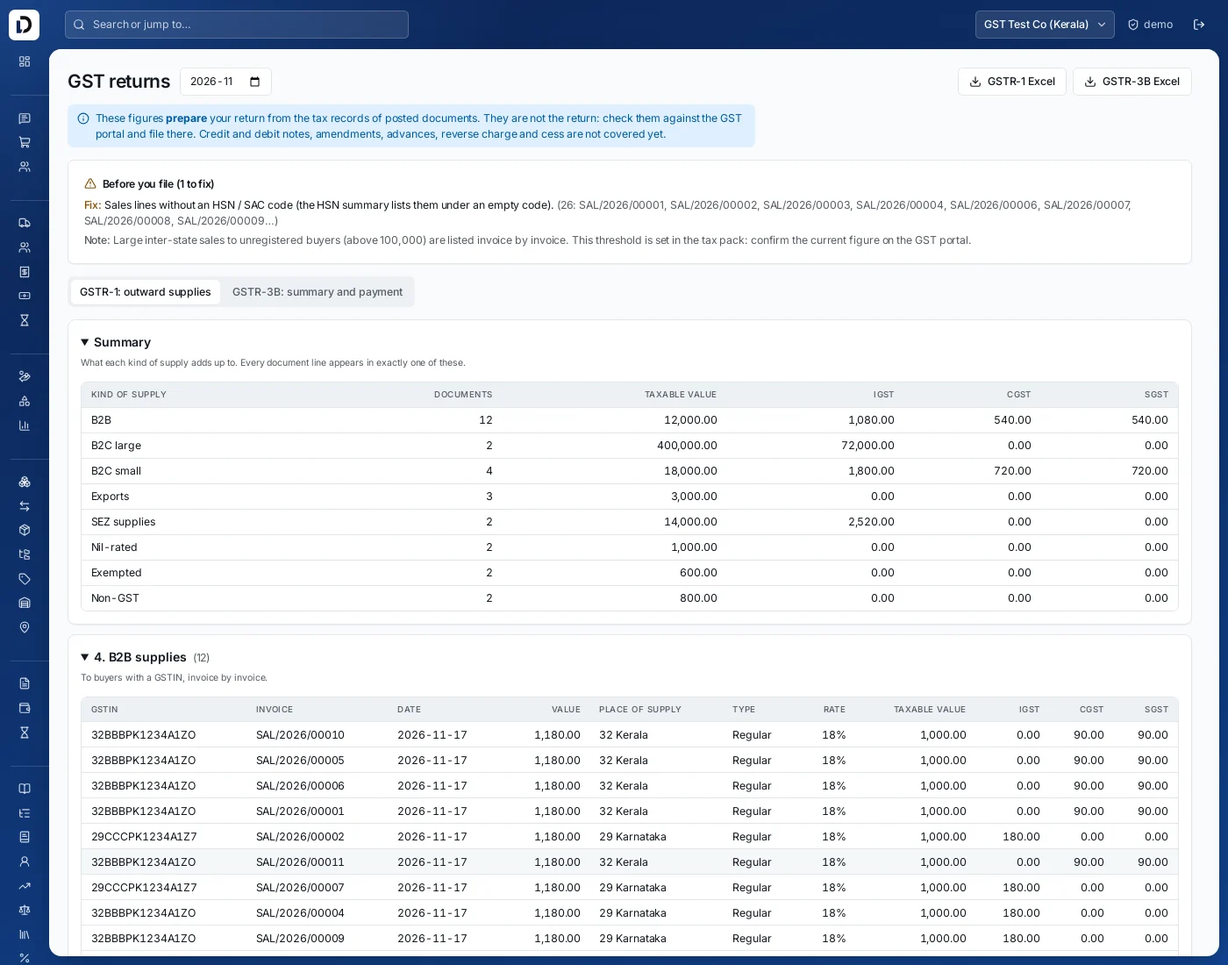
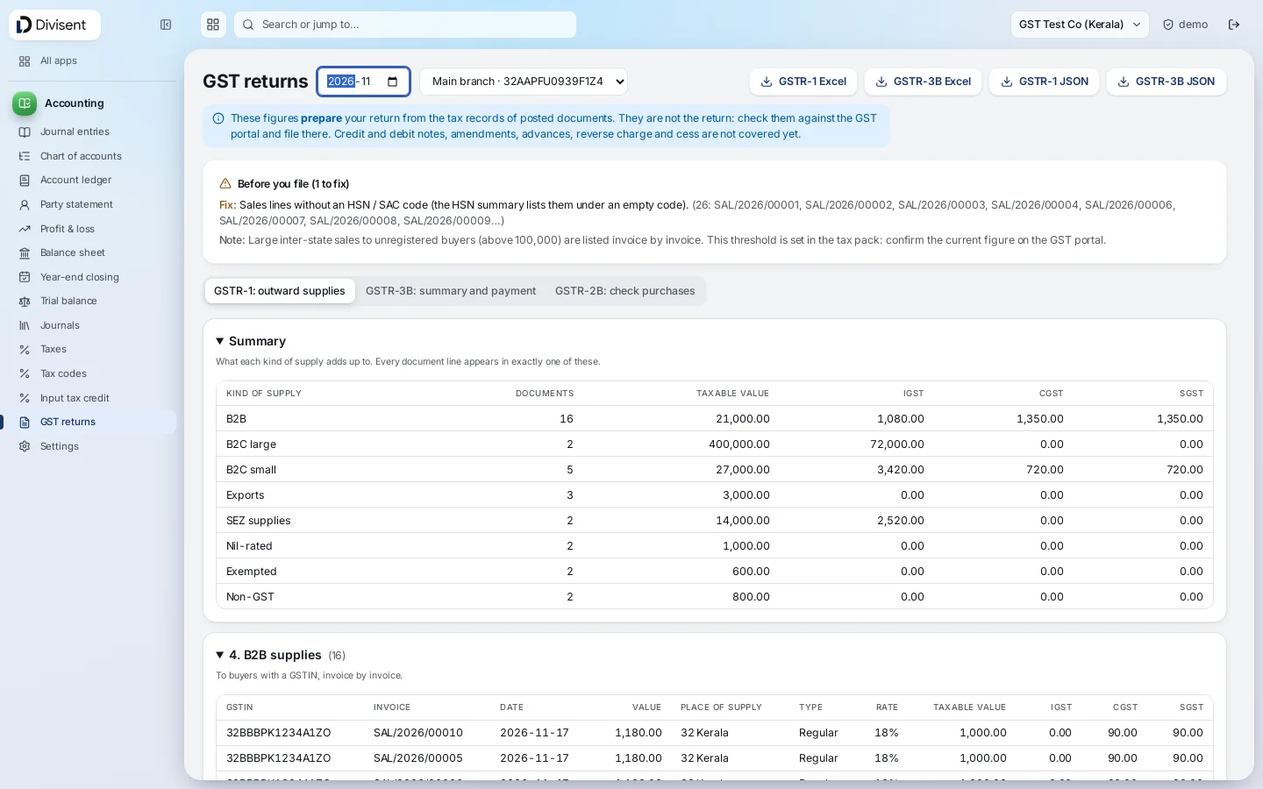
Redesign around the new app-grid product: interactive launcher hero, new screenshots, branches

diff --git a/index.html b/index.html
@@ -5,7 +5,7 @@
 <meta name="viewport" content="width=device-width, initial-scale=1">
 <title>Divisent ERP — Sales, stock, accounts and GST in one system</title>
 <meta name="description" content="Divisent ERP connects sales, purchase, inventory, invoicing, accounting and India GST on one ledger, with approvals, audit log and automated e-mail.">
-<meta name="theme-color" content="#0F2557">
+<meta name="theme-color" content="#dcecff">
 <link rel="icon" type="image/svg+xml" href="assets/favicon.svg">
 <link rel="preconnect" href="https://fonts.googleapis.com"><link rel="preconnect" href="https://fonts.gstatic.com" crossorigin>
 <link href="https://fonts.googleapis.com/css2?family=Inter:wght@400;500;600;700;800&display=swap" rel="stylesheet">
@@ -24,24 +24,19 @@
 </div></header>
 <main>
 
-<section class="hero">
-<div class="wrap hero-grid">
-<div class="hero-copy">
-<p class="pill"><b>New</b> GST returns &amp; approvals</p>
-<h1>Run your business <em>in one place.</em></h1>
-<p class="lead">Sales, stock, invoices, accounts and GST, connected. No more matching spreadsheets.</p>
+<section class="hero"><div class="wrap">
+<p class="pill"><b>New</b> App-style home screen &amp; multiple branches</p>
+<h1>Your whole business, <em>one tap away.</em></h1>
+<p class="lead">Sales, stock, invoices, accounts and GST as simple apps that share one set of books.</p>
 <div class="cta"><a class="btn" href="#contact">Request a demo</a><a class="btn btn-line" href="#story">See how it works</a></div>
-<ul class="proof"><li>No negative stock</li><li>Gap-free numbers</li><li>Full audit trail</li></ul>
-</div>
-<div class="visual">
-<div class="frame"><div class="bar"><i></i><i></i><i></i><span>erp.divisent.com</span></div><img src="assets/img/home.webp" alt="Divisent ERP overview with receivables, payables and pending orders"></div>
-<div class="chip c1" aria-hidden="true"><i>✓</i><div><b>Invoice posted</b><span>Books updated with it</span></div></div>
-<div class="chip c2" aria-hidden="true"><i>▤</i><div><b>Stock reserved</b><span>When the order is confirmed</span></div></div>
-<div class="chip c3" aria-hidden="true"><i>%</i><div><b>GST 18% applied</b><span>CGST 9% + SGST 9%</span></div></div>
-</div>
-</div>
-<nav class="modbar" aria-label="Modules"><div class="wrap"><a href="#tour" data-tab="sales">Sales</a><a href="#tour" data-tab="purchase">Purchase</a><a href="#tour" data-tab="inventory">Inventory</a><a href="#tour" data-tab="invoicing">Invoicing</a><a href="#tour" data-tab="accounting">Accounting</a><a href="#tour" data-tab="control">Approvals &amp; control</a><a href="#gst">GST</a></div></nav>
-</section>
+<p class="hint">Try it: tap any app below ↓</p>
+<div class="device">
+<div class="d-top"><img src="assets/logo.svg" alt="" width="93" height="24"><button class="back" hidden>← All apps</button><span class="co">Demo company</span></div>
+<div class="d-body">
+<div class="launch"><p class="greet">Good morning 👋</p><div class="grid"><button class="app" data-shot="home" data-name="Dashboard" data-cap="Today at a glance: who owes you, what is overdue and what is waiting." style="--a:#4c6ef5;--b:#364fc7"><span class="ico"><svg viewBox="0 0 24 24" aria-hidden="true"><rect width="7" height="9" x="3" y="3" rx="1"/><rect width="7" height="5" x="14" y="3" rx="1"/><rect width="7" height="9" x="14" y="12" rx="1"/><rect width="7" height="5" x="3" y="16" rx="1"/></svg></span>Dashboard</button><button class="app" data-shot="approvals" data-name="Approvals" data-cap="Junior staff draft, an accountant approves or rejects." style="--a:#20c997;--b:#087f5b"><span class="ico"><svg viewBox="0 0 24 24" aria-hidden="true"><rect width="8" height="4" x="8" y="2" rx="1" ry="1"/><path d="M16 4h2a2 2 0 0 1 2 2v14a2 2 0 0 1-2 2H6a2 2 0 0 1-2-2V6a2 2 0 0 1 2-2h2"/><path d="m9 14 2 2 4-4"/></svg></span>Approvals</button><button class="app" data-shot="sales" data-name="Sales" data-cap="Enquiries, orders and customers." style="--a:#ff922b;--b:#e8590c"><span class="ico"><svg viewBox="0 0 24 24" aria-hidden="true"><path d="m2.05 2.05 1.099-.028a1 1 0 0 1 1.008.815l2.69 14.347A1 1 0 0 0 7.83 18H18"/><path d="M4.563 5h16.435a1 1 0 0 1 .981 1.204l-1.026 6.226A2 2 0 0 1 18.962 14H6.25"/><circle cx="18" cy="20" r="2"/><circle cx="8" cy="20" r="2"/></svg></span>Sales</button><button class="app" data-shot="purchase" data-name="Purchase" data-cap="Purchase orders, vendor bills and suppliers." style="--a:#9775fa;--b:#6741d9"><span class="ico"><svg viewBox="0 0 24 24" aria-hidden="true"><path d="M14 18V6a2 2 0 0 0-2-2H4a2 2 0 0 0-2 2v11a1 1 0 0 0 1 1h2"/><path d="M15 18H9"/><path d="M19 18h2a1 1 0 0 0 1-1v-3.65a1 1 0 0 0-.22-.624l-3.48-4.35A1 1 0 0 0 17.52 8H14"/><circle cx="17" cy="18" r="2"/><circle cx="7" cy="18" r="2"/></svg></span>Purchase</button><button class="app" data-shot="pl" data-name="Expenses" data-cap="Record spending with receipts; it flows into Profit &amp; loss." style="--a:#f06595;--b:#c2255c"><span class="ico"><svg viewBox="0 0 24 24" aria-hidden="true"><path d="M11 15h2a2 2 0 1 0 0-4h-3c-.6 0-1.1.2-1.4.6L3 17"/><path d="m7 21 1.6-1.4c.3-.4.8-.6 1.4-.6h4c1.1 0 2.1-.4 2.8-1.2l4.6-4.4a2 2 0 0 0-2.75-2.91l-4.2 3.9"/><path d="m2 16 6 6"/><circle cx="16" cy="9" r="2.9"/><circle cx="6" cy="5" r="3"/></svg></span>Expenses</button><button class="app" data-shot="stock" data-name="Inventory" data-cap="Stock on hand, reserved and available." style="--a:#22b8cf;--b:#0b7285"><span class="ico"><svg viewBox="0 0 24 24" aria-hidden="true"><path d="M11 21.73a2 2 0 0 0 2 0l7-4A2 2 0 0 0 21 16V8a2 2 0 0 0-1-1.73l-7-4a2 2 0 0 0-2 0l-7 4A2 2 0 0 0 3 8v8a2 2 0 0 0 1 1.73z"/><path d="M12 22V12"/><polyline points="3.29 7 12 12 20.71 7"/><path d="m7.5 4.27 9 5.15"/></svg></span>Inventory</button><button class="app" data-shot="invoices" data-name="Invoicing" data-cap="Invoices, payments received and ageing." style="--a:#4dabf7;--b:#1864ab"><span class="ico"><svg viewBox="0 0 24 24" aria-hidden="true"><path d="M6 22a2 2 0 0 1-2-2V4a2 2 0 0 1 2-2h8a2.4 2.4 0 0 1 1.704.706l3.588 3.588A2.4 2.4 0 0 1 20 8v12a2 2 0 0 1-2 2z"/><path d="M14 2v5a1 1 0 0 0 1 1h5"/><path d="M10 9H8"/><path d="M16 13H8"/><path d="M16 17H8"/></svg></span>Invoicing</button><button class="app" data-shot="balance" data-name="Accounting" data-cap="Ledgers, balance sheet, year-end and GST." style="--a:#51cf66;--b:#2b8a3e"><span class="ico"><svg viewBox="0 0 24 24" aria-hidden="true"><path d="M12 5v16"/><path d="m16 12 2 2 4-4"/><path d="M22 6V5a2 2 0 00-1.999-2L16 3.002A5 5 0 0012 5a5 5 0 00-4-2H4a2 2 0 00-2 2v12a2 2 0 001.999 2H8a5 5 0 014 2 5 5 0 014-2h4.001A2 2 0 0022 17v-1.344"/></svg></span>Accounting</button><button class="app" data-shot="invoicemail" data-name="Email" data-cap="Invoices and overdue reminders sent for you." style="--a:#fcc419;--b:#e67700"><span class="ico"><svg viewBox="0 0 24 24" aria-hidden="true"><path d="m22 7-8.991 5.727a2 2 0 0 1-2.009 0L2 7"/><rect x="2" y="4" width="20" height="16" rx="2"/></svg></span>Email</button><button class="app" data-shot="audit" data-name="Company" data-cap="Settings, branches and the audit log." style="--a:#868e96;--b:#343a40"><span class="ico"><svg viewBox="0 0 24 24" aria-hidden="true"><path d="M10 12h4"/><path d="M10 8h4"/><path d="M14 21v-3a2 2 0 0 0-4 0v3"/><path d="M6 10H4a2 2 0 0 0-2 2v7a2 2 0 0 0 2 2h16a2 2 0 0 0 2-2V9a2 2 0 0 0-2-2h-2"/><path d="M6 21V5a2 2 0 0 1 2-2h8a2 2 0 0 1 2 2v16"/></svg></span>Company</button><button class="app" data-shot="roles" data-name="Team" data-cap="Users and roles with four access levels." style="--a:#da77f2;--b:#862e9c"><span class="ico"><svg viewBox="0 0 24 24" aria-hidden="true"><path d="M18 21a8 8 0 0 0-16 0"/><circle cx="10" cy="8" r="5"/><path d="M22 20c0-3.37-2-6.5-4-8a5 5 0 0 0-.45-8.3"/></svg></span>Team</button></div><div class="dock"><a href="#story" style="--a:#4dabf7;--b:#1864ab"><span class="ico"><svg viewBox="0 0 24 24" aria-hidden="true"><path d="M6 22a2 2 0 0 1-2-2V4a2 2 0 0 1 2-2h8a2.4 2.4 0 0 1 1.704.706l3.588 3.588A2.4 2.4 0 0 1 20 8v12a2 2 0 0 1-2 2z"/><path d="M14 2v5a1 1 0 0 0 1 1h5"/><path d="M10 9H8"/><path d="M16 13H8"/><path d="M16 17H8"/></svg><i>+</i></span>Invoice</a><a href="#story" style="--a:#9775fa;--b:#6741d9"><span class="ico"><svg viewBox="0 0 24 24" aria-hidden="true"><path d="M14 18V6a2 2 0 0 0-2-2H4a2 2 0 0 0-2 2v11a1 1 0 0 0 1 1h2"/><path d="M15 18H9"/><path d="M19 18h2a1 1 0 0 0 1-1v-3.65a1 1 0 0 0-.22-.624l-3.48-4.35A1 1 0 0 0 17.52 8H14"/><circle cx="17" cy="18" r="2"/><circle cx="7" cy="18" r="2"/></svg><i>+</i></span>Bill</a><a href="#story" style="--a:#f06595;--b:#c2255c"><span class="ico"><svg viewBox="0 0 24 24" aria-hidden="true"><path d="M11 15h2a2 2 0 1 0 0-4h-3c-.6 0-1.1.2-1.4.6L3 17"/><path d="m7 21 1.6-1.4c.3-.4.8-.6 1.4-.6h4c1.1 0 2.1-.4 2.8-1.2l4.6-4.4a2 2 0 0 0-2.75-2.91l-4.2 3.9"/><path d="m2 16 6 6"/><circle cx="16" cy="9" r="2.9"/><circle cx="6" cy="5" r="3"/></svg><i>+</i></span>Expense</a><a href="#story" style="--a:#ff922b;--b:#e8590c"><span class="ico"><svg viewBox="0 0 24 24" aria-hidden="true"><path d="m2.05 2.05 1.099-.028a1 1 0 0 1 1.008.815l2.69 14.347A1 1 0 0 0 7.83 18H18"/><path d="M4.563 5h16.435a1 1 0 0 1 .981 1.204l-1.026 6.226A2 2 0 0 1 18.962 14H6.25"/><circle cx="18" cy="20" r="2"/><circle cx="8" cy="20" r="2"/></svg><i>+</i></span>Sale</a></div></div>
+<div class="open" hidden><p aria-live="polite"><b></b> <span></span></p><img alt=""></div>
+</div></div>
+</div></section>
 
 <section class="intent"><div class="wrap">
 <h2 class="center">What do you want to fix first?</h2>
@@ -78,14 +73,14 @@
 <div class="stage" aria-hidden="true"><div class="frame"><div class="bar"><i></i><i></i><i></i><span>erp.divisent.com</span></div><div class="screens"><img src="assets/img/enquiries.webp" alt="" class=on><img src="assets/img/sales.webp" alt="" ><img src="assets/img/stock.webp" alt="" ><img src="assets/img/invoices.webp" alt="" ><img src="assets/img/receivables.webp" alt="" ></div></div><div class="meter"><b></b></div></div>
 </div></div></section>
 
-<section class="sec navy" id="gst"><div class="wrap">
+<section class="sec tint" id="gst"><div class="wrap">
 <div class="show"><div><p class="eyebrow">Built for India GST</p><h2>GST worked out as you bill.</h2>
 <p>Choose a tax code; Divisent applies CGST + SGST or IGST from the place of supply, checks GSTINs and carries HSN/SAC codes to the PDF.</p>
 <ul class="tick"><li>GSTR-1 and GSTR-3B figures with checks, Excel and JSON</li><li>Input tax credit and reverse charge</li><li>GSTR-2B upload and matching</li><li>E-invoice and e-way bill files; IRN and QR on the PDF</li></ul>
 <p class="note">File-based: you review and upload to the government portals yourself. There is no live portal connection, and generated JSON layouts should be verified before filing. VAT setups are supported too.</p></div>
 <div class="stack-shots"><div class="frame"><div class="bar"><i></i><i></i><i></i><span>erp.divisent.com</span></div><img src="assets/img/gstr.webp" alt="GSTR-1 summary by kind of supply" loading=lazy></div><div class="frame"><div class="bar"><i></i><i></i><i></i><span>erp.divisent.com</span></div><img src="assets/img/gst-invoice.webp" alt="Invoice with CGST and SGST calculated" loading=lazy></div></div></div>
-<div class="show rev"><div><h2>Match purchases against GSTR-2B.</h2><p>Upload the month's statement and see what matched, what differs and what your supplier hasn't reported, before you claim the credit.</p></div>
-<div><div class="frame"><div class="bar"><i></i><i></i><i></i><span>erp.divisent.com</span></div><img src="assets/img/gstr2b.webp" alt="GSTR-2B matching results" loading=lazy></div></div></div>
+<div class="show rev"><div><h2>Input tax credit, worked out.</h2><p>See tax collected, credit you can claim and what is left to pay. Upload GSTR-2B to find what your supplier hasn't reported.</p></div>
+<div><div class="frame"><div class="bar"><i></i><i></i><i></i><span>erp.divisent.com</span></div><img src="assets/img/itc.webp" alt="Input tax credit summary" loading="lazy"></div></div></div>
 </div></section>
 
 <section class="sec"><div class="wrap show">
@@ -95,7 +90,7 @@
 
 <section class="sec alt" id="features"><div class="wrap">
 <p class="eyebrow">All features</p><h2>Everything inside Divisent ERP.</h2>
-<div class="dir"><article><h3>Home &amp; work</h3><ul><li>Overview dashboard</li><li>Approvals</li><li>Ctrl+K command search</li><li>Multiple companies</li></ul></article><article><h3>Sales</h3><ul><li>Enquiries</li><li>Sales orders</li><li>Customers</li></ul></article><article><h3>Purchase</h3><ul><li>Purchase orders</li><li>Suppliers</li><li>Vendor bills</li><li>Payments to suppliers</li><li>Payables ageing</li></ul></article><article><h3>Expenses</h3><ul><li>Expenses with receipts</li><li>Expense categories</li><li>Expense report</li></ul></article><article><h3>Inventory</h3><ul><li>Stock on hand</li><li>Stock moves</li><li>Products</li><li>Product categories</li><li>Brands</li><li>Warehouses</li><li>Locations</li></ul></article><article><h3>Invoicing</h3><ul><li>Invoices</li><li>Payments received</li><li>Receivables ageing</li></ul></article><article><h3>Accounting</h3><ul><li>Journal entries</li><li>Chart of accounts</li><li>Journals</li><li>Account ledger</li><li>Party statement</li><li>Profit &amp; loss</li><li>Balance sheet</li><li>Trial balance</li><li>Year-end closing</li><li>Accounting settings</li></ul></article><article><h3>Tax &amp; GST</h3><ul><li>Taxes</li><li>Tax codes</li><li>Input tax credit</li><li>GST returns</li><li>GSTR-2B check</li><li>E-invoice &amp; e-way bill files</li></ul></article><article><h3>E-mail</h3><ul><li>Overdue reminders</li><li>Invoice e-mails</li><li>Reminder rules</li><li>Mail log</li><li>Email settings</li></ul></article><article><h3>Company &amp; team</h3><ul><li>Company settings</li><li>Audit log</li><li>Users</li><li>Roles</li></ul></article></div>
+<div class="dir"><article><h3>Home &amp; work</h3><ul><li>Overview dashboard</li><li>Approvals</li><li>Ctrl+K command search</li><li>Multiple companies</li><li>Multiple branches</li></ul></article><article><h3>Sales</h3><ul><li>Enquiries</li><li>Sales orders</li><li>Customers</li></ul></article><article><h3>Purchase</h3><ul><li>Purchase orders</li><li>Suppliers</li><li>Vendor bills</li><li>Payments to suppliers</li><li>Payables ageing</li></ul></article><article><h3>Expenses</h3><ul><li>Expenses with receipts</li><li>Expense categories</li><li>Expense report</li></ul></article><article><h3>Inventory</h3><ul><li>Stock on hand</li><li>Stock moves</li><li>Products</li><li>Product categories</li><li>Brands</li><li>Warehouses</li><li>Locations</li></ul></article><article><h3>Invoicing</h3><ul><li>Invoices</li><li>Payments received</li><li>Receivables ageing</li></ul></article><article><h3>Accounting</h3><ul><li>Journal entries</li><li>Chart of accounts</li><li>Journals</li><li>Account ledger</li><li>Party statement</li><li>Profit &amp; loss</li><li>Balance sheet</li><li>Trial balance</li><li>Year-end closing</li><li>Accounting settings</li></ul></article><article><h3>Tax &amp; GST</h3><ul><li>Taxes</li><li>Tax codes</li><li>Input tax credit</li><li>GST returns</li><li>GSTR-2B check</li><li>E-invoice &amp; e-way bill files</li></ul></article><article><h3>E-mail</h3><ul><li>Overdue reminders</li><li>Invoice e-mails</li><li>Reminder rules</li><li>Mail log</li><li>Email settings</li></ul></article><article><h3>Company &amp; team</h3><ul><li>Company settings</li><li>Audit log</li><li>Users</li><li>Roles</li></ul></article></div>
 </div></section>
 
 <section class="sec" id="why"><div class="wrap">
@@ -129,6 +124,7 @@
 <details><summary>Does it file GST returns for me?</summary><p>No. It prepares figures and files for you to check and upload. It is not connected live to the GST portal.</p></details>
 <details><summary>What isn't included yet?</summary><p>Multi-currency, credit and debit notes, stock valuation, lot or serial tracking, bank reconciliation and payroll are not available today.</p></details>
 <details><summary>Can I run more than one company?</summary><p>Yes. One login can work in several companies, and each company's data stays separate.</p></details>
+<details><summary>Do you support branches?</summary><p>Yes. One company can have several branches, each with its own GSTIN and invoice numbering, and key reports filter by branch. Stock transfers between branches are not built yet.</p></details>
 <details><summary>Can it be adapted to our process?</summary><p>Yes, through custom fields and rules kept separate from the core, so the product stays upgradeable.</p></details>
 </div></section>
 

diff --git a/assets/style.css b/assets/style.css
@@ -101,31 +101,9 @@ td[data-h]::before{content:attr(data-h);display:block;font-size:11px;font-weight
 @media(max-width:980px){.about{grid-template-columns:1fr;gap:12px}.links{gap:0}}
 @media(min-width:981px) and (max-width:1100px){.links{gap:16px}}
 
-.hero{position:relative;overflow:hidden;background:#f6f8fd}
-.hero-grid{position:relative;display:grid;grid-template-columns:minmax(0,.9fr) minmax(0,1.1fr);gap:48px;align-items:center;padding:80px 0 88px}
-.pill{display:inline-flex;align-items:center;gap:10px;margin:0 0 24px;padding:5px 16px 5px 5px;background:#fff;border:1px solid var(--line);border-radius:99px;font-size:13.5px;color:#37415c}
-.pill b{background:var(--accent);color:#fff;border-radius:99px;padding:1px 10px;font-size:12px}
-.hero h1{font-size:clamp(38px,4.6vw,62px);color:var(--navy);margin-bottom:22px}
-.hero h1 em{font-style:normal;color:var(--accent)}
-.hero .lead{margin:0}.hero .cta{justify-content:flex-start;margin-top:30px}
 .btn-line{background:#fff;color:var(--navy);border-color:#cfd6e8}.btn-line:hover{border-color:var(--navy)}
-.proof{list-style:none;display:flex;flex-wrap:wrap;gap:8px 20px;margin:30px 0 0;padding:0;font-size:13.5px;font-weight:500;color:var(--muted)}
-.proof li::before{content:"✓ ";color:#12805c;font-weight:800}
-.visual{position:relative;margin-right:calc(min(0px,(1180px - 100vw)/2) + 40px)}
-.visual::before{content:"";position:absolute;inset:-32px -40px;background:linear-gradient(135deg,#2f6bff,#0F2557);border-radius:32px;transform:rotate(-3deg);opacity:.12}
-.visual .frame{position:relative}
-.chip{position:absolute;display:flex;gap:12px;align-items:center;background:#fff;border:1px solid var(--line);border-radius:14px;padding:12px 16px;box-shadow:0 18px 40px -18px rgba(9,25,66,.45);animation:bob 6s ease-in-out infinite}
-.chip i{display:grid;place-items:center;width:34px;height:34px;border-radius:10px;background:#e8efff;color:var(--accent);font-style:normal;font-weight:800}
-.chip b{display:block;font-size:14px;color:var(--navy);line-height:1.3}.chip span{display:block;font-size:12.5px;color:var(--muted)}
-.c1{left:-34px;top:20%}.c1 i{background:#e2f5ec;color:#12805c}.c2{right:16px;top:-26px;animation-delay:-2s}.c3{left:14%;bottom:-28px;animation-delay:-4s}
-@keyframes bob{50%{transform:translateY(-9px)}}
-.modbar{position:relative;background:var(--navy)}
-.modbar .wrap{display:flex;justify-content:space-between;gap:4px 24px;overflow-x:auto;padding:6px 0}
-.modbar a{color:#c9d5f5;text-decoration:none;font-weight:600;font-size:14.5px;padding:14px 4px;white-space:nowrap;border-bottom:2px solid transparent}
-.modbar a:hover{color:#fff;border-color:#8fb2ff}
 @media(max-width:980px){.hero-grid{grid-template-columns:minmax(0,1fr);padding:52px 0 64px}.visual{margin:20px 0 0}.visual::before{inset:-18px -10px}.c1{left:-6px;top:auto;bottom:-26px}.c2{right:-4px}.c3{display:none}}
 @media(max-width:600px){.chip{padding:8px 10px;gap:8px}.chip i{width:26px;height:26px}.chip span{display:none}}
-@media(prefers-reduced-motion:reduce){.chip{animation:none}}
 .brand img{height:30px;width:auto}.foot .brand img{height:26px}
 .foot .brand{gap:10px}.foot .brand .tile{height:30px}.foot .brand .word{height:30px}
 .progress{position:fixed;left:0;top:0;height:3px;width:100%;z-index:60;background:linear-gradient(90deg,#2f6bff,#8fb2ff);transform-origin:0 50%;transform:scaleX(0)}
@@ -145,14 +123,11 @@ td[data-h]::before{content:attr(data-h);display:block;font-size:11px;font-weight
 .cards4 a:nth-child(3),.cards4>div:nth-child(3),.dir article:nth-child(5n+3){transition-delay:.16s}
 .cards4 a:nth-child(4),.cards4>div:nth-child(4),.dir article:nth-child(5n+4){transition-delay:.24s}
 .dir article:nth-child(5n){transition-delay:.32s}
-.visual>.frame{transition:transform .25s ease-out}
 @media(max-width:980px){.story-grid{grid-template-columns:minmax(0,1fr)}.stage{display:none}
 .steps li{min-height:0;opacity:1;border-color:var(--accent);padding:0 0 40px 20px}.steps h3{font-size:24px}.steps img{display:block;margin-top:18px;border-radius:12px;border:1px solid var(--line);box-shadow:var(--shadow)}}
 @media(prefers-reduced-motion:reduce){.screens img{transition:none}}
 
 /* compact spacing */
-.hero-grid{padding:44px 0 52px;gap:40px}
-.pill{margin-bottom:18px}.hero h1{margin-bottom:14px;line-height:1.08}.hero .cta{margin-top:22px}.proof{margin-top:20px}
 .sec{padding:64px 0}.intent{padding:52px 0 56px}.cards4{margin-top:24px}
 .tabs{margin:24px 0 26px}.dir{margin-top:26px}.table{margin:24px 0 14px}.show.rev{margin-top:52px}
 .p-copy{padding-top:48px}.flow{margin-top:26px}
@@ -160,11 +135,6 @@ td[data-h]::before{content:attr(data-h);display:block;font-size:11px;font-weight
 @media(max-width:980px){.p-copy{padding-top:0}.steps li{min-height:0;padding-bottom:28px}.sec{padding:48px 0}.hero-grid{padding:28px 0 40px;gap:26px}}
 @media(max-width:600px){
 .wrap{width:calc(100% - 32px)}
-.hero{text-align:center}.hero h1{font-size:36px}.hero .lead{font-size:16.5px;line-height:1.55}
-.pill{font-size:12.5px;margin-bottom:14px}
-.hero .cta{display:grid;grid-template-columns:1fr 1fr;gap:10px;margin-top:18px}.hero .btn{padding:12px 8px;font-size:14.5px}
-.proof{justify-content:center;gap:4px 14px;font-size:12.5px;margin-top:14px}
-.visual{margin:8px 0 6px}
 h2{font-size:26px}.lead{font-size:16.5px}
 .sec{padding:40px 0}.intent{padding:36px 0 40px}
 .cards4{grid-template-columns:1fr 1fr;gap:10px}.cards4 a,.cards4>div{padding:14px;gap:6px}.cards4 b{font-size:15px;line-height:1.3}.cards4 span{font-size:13px;line-height:1.45}
@@ -172,4 +142,51 @@ h2{font-size:26px}.lead{font-size:16.5px}
 .dir{grid-template-columns:1fr 1fr;gap:10px}.dir article{padding:14px}.dir h3{font-size:14px}.dir li{font-size:12.5px;line-height:1.4}
 .about{gap:6px}
 }
-.hero h1 em{display:block}
+
+
+/* ---- product look: frosted blue, app tiles, rounded controls ---- */
+:root{--navy:#14213d;--accent:#2563eb;--alt:#eef3fb;--line:#dfe6f2;--r:22px;--shadow:0 24px 60px -30px rgba(30,64,130,.4)}
+.nav{background:rgba(240,247,255,.82)}
+.btn{border-radius:99px;background:#1b3570;border-color:#1b3570}.btn-line,.btn-light{background:#fff;color:#14213d;border-color:#d5dfef}
+.frame{border-radius:20px}.frame .bar{display:none}
+.hero{text-align:center;padding:40px 0 56px;background:radial-gradient(700px 420px at 22% 8%,#bcdcff,transparent),radial-gradient(700px 420px at 85% 30%,#e4dcff,transparent),linear-gradient(#e6f2ff,#eef3fb)}
+.pill{display:inline-flex;gap:10px;align-items:center;margin:0 0 16px;padding:5px 16px 5px 5px;background:rgba(255,255,255,.75);border:1px solid #fff;border-radius:99px;font-size:13.5px}
+.pill b{background:var(--accent);color:#fff;border-radius:99px;padding:1px 10px;font-size:12px}
+.hero h1{font-size:clamp(36px,5.2vw,66px);color:var(--navy);margin-bottom:12px}
+.hero h1 em{font-style:normal;color:var(--accent)}
+.hero .lead{margin:0 auto}.hero .cta{margin-top:22px}
+.hint{margin:26px 0 10px;font-size:13.5px;font-weight:600;color:var(--accent)}
+.device{max-width:980px;margin:0 auto;background:rgba(255,255,255,.55);border:1px solid #fff;border-radius:28px;padding:10px;box-shadow:var(--shadow);backdrop-filter:blur(20px)}
+.d-top{display:flex;align-items:center;gap:12px;padding:4px 8px 10px}.d-top img{height:22px;width:auto}
+.co{margin-left:auto;font-size:12.5px;font-weight:600;background:#fff;border-radius:10px;padding:4px 12px}
+.back{font:600 13px Inter,sans-serif;border:0;background:var(--navy);color:#fff;border-radius:99px;padding:6px 14px;cursor:pointer}
+.d-body{min-height:480px;display:grid;border-radius:20px;overflow:hidden;background:radial-gradient(500px 300px at 20% 0,#c4dfff,transparent),linear-gradient(#dfeeff,#e8ecf6)}
+.launch,.open{animation:pop .35s ease}
+.launch{display:flex;flex-direction:column;align-items:center;padding:26px 14px 18px}
+.greet{margin:0 0 20px;font-weight:700;font-size:19px}
+.grid{display:grid;grid-template-columns:repeat(6,1fr);gap:22px 10px;width:100%;max-width:680px;margin-bottom:auto}
+.app{display:flex;flex-direction:column;align-items:center;gap:7px;border:0;background:none;padding:0;cursor:pointer;font:600 12.5px Inter,sans-serif;color:var(--ink)}
+.ico{position:relative;display:grid;place-items:center;width:64px;height:64px;border-radius:17px;background:linear-gradient(var(--a),var(--b));box-shadow:0 10px 18px -8px var(--b);transition:transform .2s}
+.ico svg{width:30px;height:30px;fill:none;stroke:#fff;stroke-width:2;stroke-linecap:round;stroke-linejoin:round}
+.app:hover .ico,.dock a:hover .ico{transform:translateY(-6px) scale(1.07)}
+.dock{display:flex;gap:18px;margin-top:26px;padding:12px 20px;background:rgba(255,255,255,.7);border:1px solid #fff;border-radius:26px}
+.dock a{display:flex;flex-direction:column;align-items:center;gap:5px;font-size:11.5px;font-weight:600;text-decoration:none}
+.dock .ico{width:44px;height:44px;border-radius:13px}.dock svg{width:21px;height:21px}
+.dock i{position:absolute;right:-5px;bottom:-5px;width:17px;height:17px;border-radius:50%;background:#fff;color:var(--navy);font-style:normal;font-size:13px;line-height:16px;box-shadow:0 1px 4px rgba(0,0,0,.2)}
+.open{padding:12px;text-align:left}.open p{margin:0 4px 10px;font-size:14px;color:var(--muted)}.open p b{color:var(--navy)}.open img{width:100%;border-radius:14px;box-shadow:var(--shadow)}
+@keyframes pop{from{opacity:0;transform:scale(.96)}}
+.intent{background:#fff}
+.tabs{width:max-content;max-width:100%;margin-inline:auto;background:#e2e9f5;padding:5px;border-radius:99px}
+.tabs button{border:0;background:transparent}.tabs button[aria-selected=true]{background:#fff;color:var(--navy);box-shadow:0 2px 8px rgba(20,33,61,.15)}
+.tint,.cta-sec.navy{background:radial-gradient(700px 380px at 15% 0,#bcdcff,transparent),linear-gradient(#e6f2ff,#eef3fb);color:var(--ink)}
+.tint h2,.cta-sec.navy h2{color:var(--navy)}.tint p,.cta-sec.navy p,.cta-sec .lead{color:var(--muted)}.tint .eyebrow{color:var(--accent)}.note{border-color:var(--accent)}
+.cta-sec .btn-light{background:#1b3570;border-color:#1b3570;color:#fff}.cta-sec .btn-outline{background:#fff;color:var(--navy);border-color:#d5dfef}
+@media(max-width:980px){.links{background:#fff}.grid{grid-template-columns:repeat(4,1fr)}}
+@media(max-width:600px){
+.hero{padding:22px 0 34px}.hero h1{font-size:36px}.hero h1 em{display:block}.hero .cta{display:grid;grid-template-columns:1fr 1fr}
+.device{border-radius:22px;padding:6px}.d-body{min-height:420px}.grid{gap:16px 4px}.ico{width:56px;height:56px;border-radius:15px}.app{font-size:11.5px}.dock{gap:14px;padding:10px 14px}.greet{margin-bottom:14px}
+.tabs{border-radius:99px;width:auto}
+}
+@media(prefers-reduced-motion:reduce){.launch,.open{animation:none}.ico{transition:none}}
+.d-body{min-height:390px}.hero .lead{max-width:68ch}
+@media(max-width:600px){.hero .btn{white-space:nowrap;padding:12px 6px;font-size:14px}.d-body{min-height:400px}}

diff --git a/assets/main.js b/assets/main.js
@@ -35,10 +35,13 @@ const onScroll=()=>{
 addEventListener('scroll',()=>{if(!tick){tick=true;requestAnimationFrame(onScroll)}},{passive:true});
 onScroll();
 
-// the hero screenshot leans gently towards the pointer
-const visual=document.querySelector('.visual');
-if(visual&&matchMedia('(pointer:fine) and (prefers-reduced-motion:no-preference)').matches){
-  const f=visual.querySelector('.frame');
-  visual.addEventListener('pointermove',e=>{const r=visual.getBoundingClientRect(),x=(e.clientX-r.left)/r.width-.5,y=(e.clientY-r.top)/r.height-.5;f.style.transform=`perspective(1200px) rotateY(${x*5}deg) rotateX(${-y*5}deg)`});
-  visual.addEventListener('pointerleave',()=>f.style.transform='');
-}
+// hero app launcher
+const launch=document.querySelector('.launch'),opened=document.querySelector('.open'),back=document.querySelector('.back');
+const show=on=>{opened.hidden=!on;back.hidden=!on;launch.hidden=on};
+$('.app').forEach(a=>a.addEventListener('click',()=>{
+  opened.querySelector('b').textContent=a.dataset.name+'.';
+  opened.querySelector('span').textContent=a.dataset.cap.replace('&amp;','&');
+  const i=opened.querySelector('img');i.src=`assets/img/${a.dataset.shot}.webp`;i.alt=a.dataset.name+' screen';
+  show(true);back.focus({preventScroll:true});
+}));
+back.addEventListener('click',()=>show(false));
